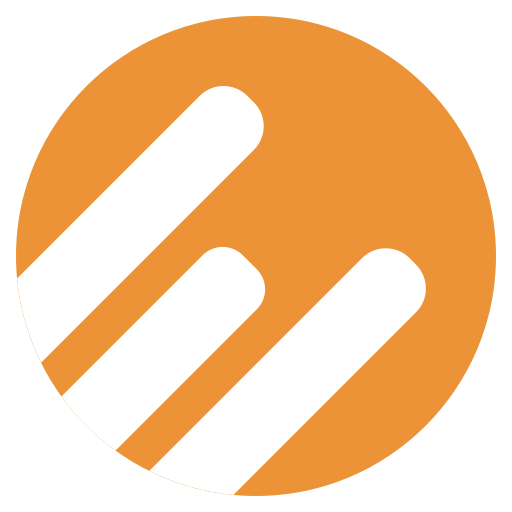
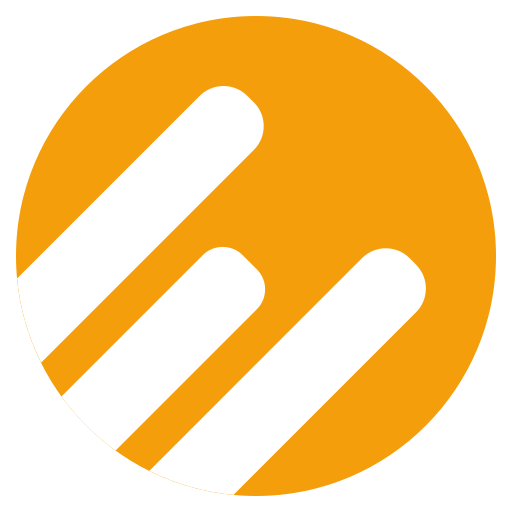
Unify brand orange to #F59E0B (amber-500) across all assets
Replace muted #EB9336 with brighter #F59E0B for better harmony
with Tailwind amber palette used in UI components. Updates Logo
components, all static SVGs, favicons, PNGs, email templates,
brand gradients, and theme color.

diff --git a/src/routes/api/contact/+server.ts b/src/routes/api/contact/+server.ts
@@ -155,7 +155,7 @@ export const POST: RequestHandler = async ({ request, platform, getClientAddress
       subject: `[Contact Form] ${safeSubject} - from ${safeName}`,
       html: `
         <div style="font-family: Arial, sans-serif; max-width: 600px; margin: 0 auto;">
-          <div style="background: linear-gradient(135deg, #EB9336 0%, #D97706 100%); padding: 20px; border-radius: 8px 8px 0 0;">
+          <div style="background: linear-gradient(135deg, #F59E0B 0%, #D97706 100%); padding: 20px; border-radius: 8px 8px 0 0;">
             <h1 style="color: white; margin: 0; font-size: 24px;">New Contact Form Submission</h1>
           </div>
 
@@ -171,7 +171,7 @@ export const POST: RequestHandler = async ({ request, platform, getClientAddress
               </tr>
               <tr>
                 <td style="padding: 12px 0; border-bottom: 1px solid #e5e7eb; color: #6b7280;"><strong>Email:</strong></td>
-                <td style="padding: 12px 0; border-bottom: 1px solid #e5e7eb; color: #111827;"><a href="mailto:${safeEmail}" style="color: #EB9336;">${safeEmail}</a></td>
+                <td style="padding: 12px 0; border-bottom: 1px solid #e5e7eb; color: #111827;"><a href="mailto:${safeEmail}" style="color: #F59E0B;">${safeEmail}</a></td>
               </tr>
               <tr>
                 <td style="padding: 12px 0; border-bottom: 1px solid #e5e7eb; color: #6b7280;"><strong>Company:</strong></td>
@@ -234,7 +234,7 @@ Reply directly to this email to respond to ${name}.
       subject: 'We received your message - Employee Envoy',
       html: `
         <div style="font-family: Arial, sans-serif; max-width: 600px; margin: 0 auto;">
-          <div style="background: linear-gradient(135deg, #EB9336 0%, #D97706 100%); padding: 20px; border-radius: 8px 8px 0 0;">
+          <div style="background: linear-gradient(135deg, #F59E0B 0%, #D97706 100%); padding: 20px; border-radius: 8px 8px 0 0;">
             <h1 style="color: white; margin: 0; font-size: 24px;">Thank You for Contacting Us!</h1>
           </div>
 
@@ -266,7 +266,7 @@ Reply directly to this email to respond to ${name}.
 
             <div style="margin-top: 24px; padding-top: 16px; border-top: 1px solid #e5e7eb; color: #9ca3af; font-size: 12px;">
               <p style="margin: 0;">
-                Questions? Reply to this email or contact us at <a href="mailto:hello@employeeenvoy.com" style="color: #EB9336;">hello@employeeenvoy.com</a>
+                Questions? Reply to this email or contact us at <a href="mailto:hello@employeeenvoy.com" style="color: #F59E0B;">hello@employeeenvoy.com</a>
               </p>
             </div>
           </div>

diff --git a/src/lib/components/Logo.svelte b/src/lib/components/Logo.svelte
@@ -21,9 +21,9 @@
   };
 
   const variantColors = {
-    default: { employee: '#4F4F51', envoy: '#EB9336' },
-    light: { employee: '#FFFFFF', envoy: '#EB9336' },
-    dark: { employee: '#4F4F51', envoy: '#EB9336' }
+    default: { employee: '#4F4F51', envoy: '#F59E0B' },
+    light: { employee: '#FFFFFF', envoy: '#F59E0B' },
+    dark: { employee: '#4F4F51', envoy: '#F59E0B' }
   };
 
   const currentSize = sizeClasses[size];
@@ -35,7 +35,7 @@
   <div class="{currentSize.icon} flex-shrink-0">
     <svg viewBox="0 0 64 64" fill="none" xmlns="http://www.w3.org/2000/svg" class="w-full h-full">
       <g transform="translate(-52.0733, 2) scale(0.678887)">
-        <circle cx="123.84" cy="44.19" r="44.19" fill="#EB9336"/>
+        <circle cx="123.84" cy="44.19" r="44.19" fill="#F59E0B"/>
         <path d="M123.45,15.92l-1.23-1.23c-2.4-2.4-6.33-2.4-8.73,0l-33.64,33.64c.5,5.34,1.98,10.6,4.42,15.5l39.19-39.19c2.4-2.4,2.4-6.33,0-8.73Z" fill="white"/>
         <path d="M124,46.65l-2.62-2.62c-2.02-2.02-5.32-2.02-7.34,0l-26.03,26.03c1.36,1.88,2.88,3.68,4.58,5.38s3.5,3.22,5.38,4.58l26.03-26.03c2.02-2.02,2.02-5.32,0-7.34Z" fill="white"/>
         <path d="M153.33,45.8l-1.23-1.23c-2.4-2.4-6.33-2.4-8.73,0l-39.19,39.19c4.91,2.44,10.16,3.92,15.5,4.42l33.64-33.64c2.4-2.4,2.4-6.33,0-8.73Z" fill="white"/>

diff --git a/src/app.html b/src/app.html
@@ -8,8 +8,8 @@
 		<link rel="icon" type="image/png" sizes="16x16" href="%sveltekit.assets%/favicon-16x16.png" />
 		<link rel="apple-touch-icon" sizes="180x180" href="%sveltekit.assets%/apple-touch-icon.png" />
 		<link rel="manifest" href="%sveltekit.assets%/site.webmanifest" />
-		<meta name="msapplication-TileColor" content="#f97316" />
-		<meta name="theme-color" content="#f97316" />
+		<meta name="msapplication-TileColor" content="#F59E0B" />
+		<meta name="theme-color" content="#F59E0B" />
 
 		<!-- Viewport & SEO -->
 		<meta name="viewport" content="width=device-width, initial-scale=1" />

diff --git a/tailwind.config.js b/tailwind.config.js
@@ -52,8 +52,8 @@ export default {
 				body: ['Inter', 'system-ui', 'sans-serif'],
 			},
 			backgroundImage: {
-				'brand-gradient': 'linear-gradient(135deg, #EB9336 0%, #D97706 100%)',
-				'brand-gradient-hover': 'linear-gradient(135deg, #D48A2F 0%, #C2710C 100%)',
+				'brand-gradient': 'linear-gradient(135deg, #F59E0B 0%, #D97706 100%)',
+				'brand-gradient-hover': 'linear-gradient(135deg, #E09000 0%, #C2710C 100%)',
 			},
 			animation: {
 				'fade-in-up': 'fadeInUp 0.6s ease-out forwards',

diff --git a/CLAUDE.md b/CLAUDE.md
@@ -13,11 +13,11 @@ Local `src/lib/data/integrations.ts` is for display only — NOT the source of t
 ## Design System
 
 - **Visual Style**: "Premium SaaS" aesthetic with cinematic noise, glassmorphism, and spotlight effects.
-- **Brand Colors**: Primary orange `#EB9336`, gradient to `#D97706`. Text: `#4F4F51` (light) / white (dark). "Envoy" text: `#EB9336`.
-- **Logo**: Orange circle with 3 diagonal white curved motion strokes (professional Bézier paths). Icon in `Logo.svelte` (inline SVG). "Employee" in `#4F4F51`/white + "Envoy" in `#EB9336`.
+- **Brand Colors**: Primary orange `#F59E0B` (amber-500), gradient to `#D97706`. Text: `#4F4F51` (light) / white (dark). "Envoy" text: `#F59E0B`.
+- **Logo**: Orange circle with 3 diagonal white curved motion strokes (professional Bézier paths). Icon in `Logo.svelte` (inline SVG). "Employee" in `#4F4F51`/white + "Envoy" in `#F59E0B`.
 - **Key Components**: `SpotlightCard.svelte` for interactive feature grids, `Logo.svelte` for brand mark.
 - **Global Effects**: Noise texture defined in `+layout.svelte`, strict typography tracking in global CSS.
-- **Font**: Plus Jakarta Sans (headings), Inter (body).
+- **Font**: Elza Round Medium (headings/nav), Plus Jakarta Sans (heading fallback), Inter (body).
 
 ## Commands
 
